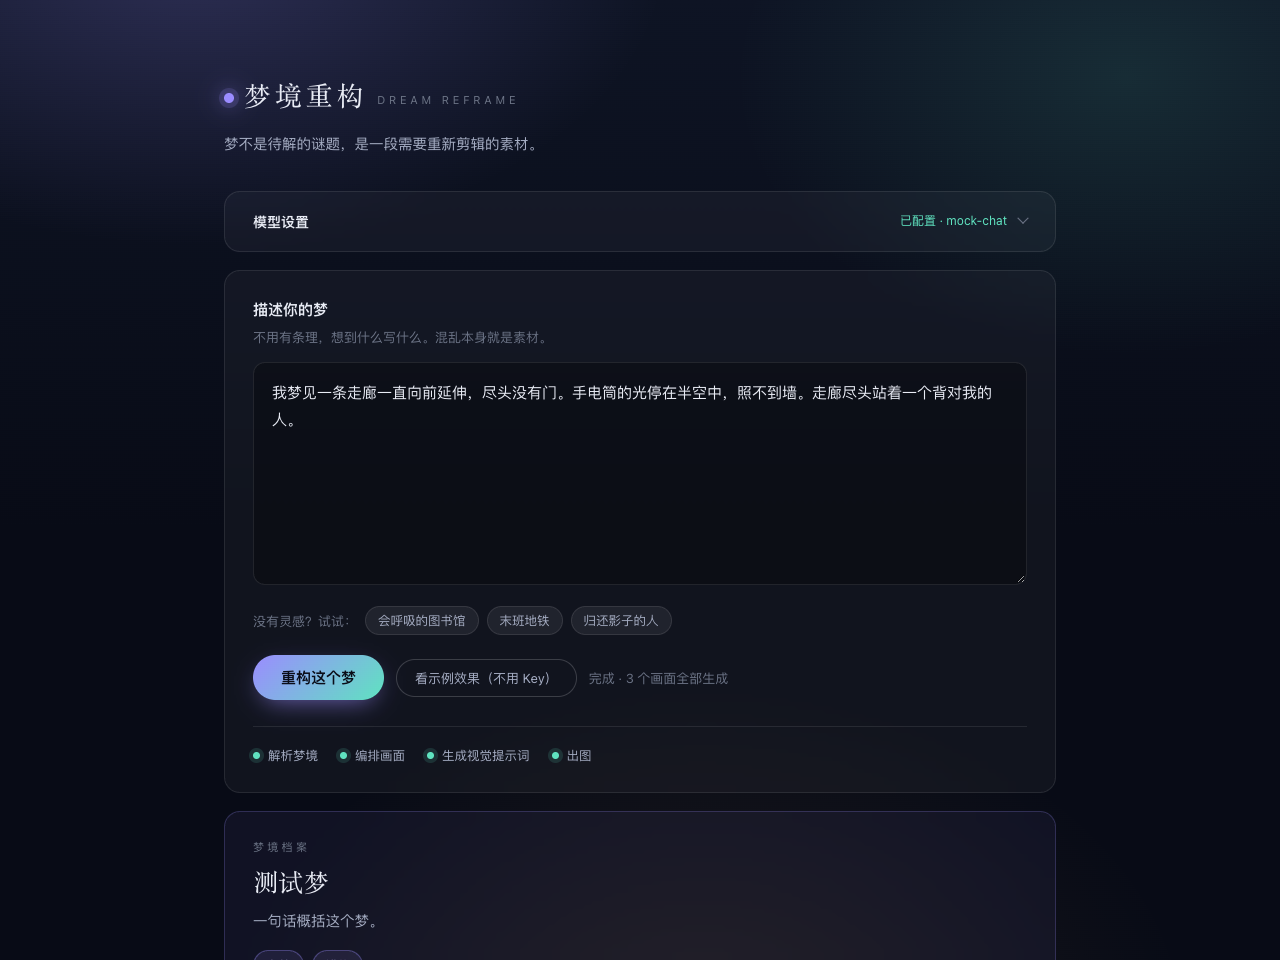
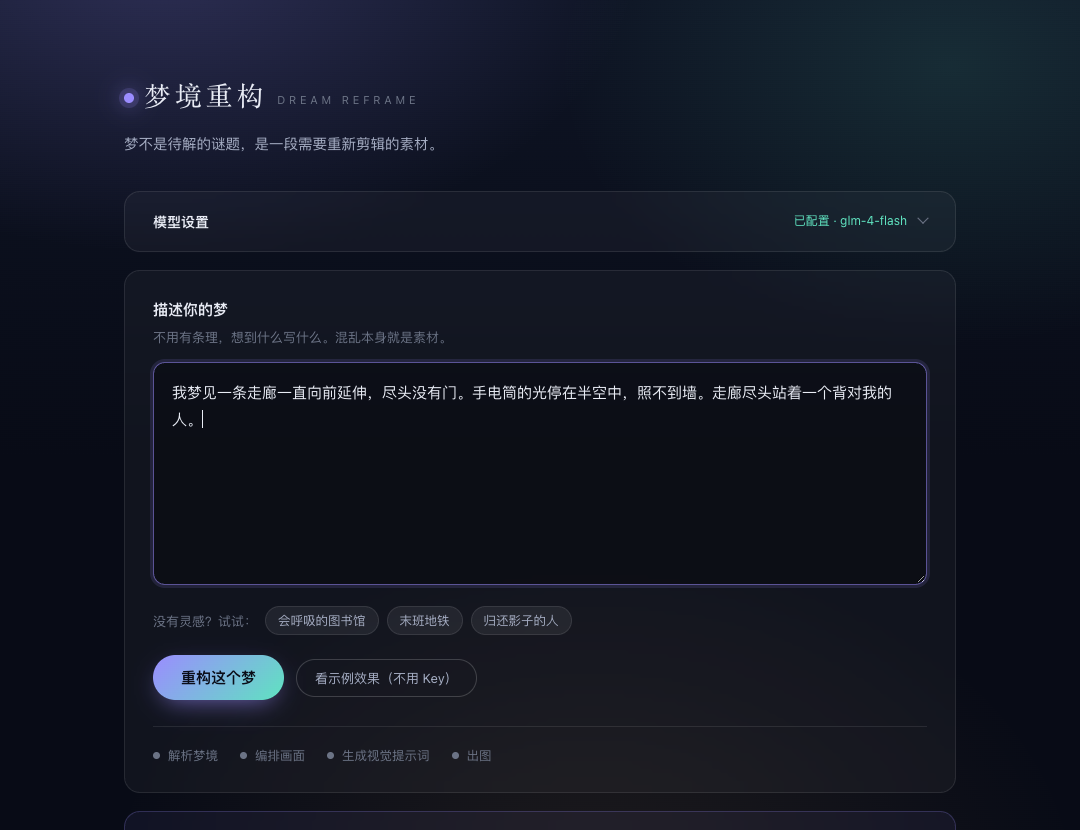
chore: 清理 v0.1 残留内容
- README：删除本机绝对路径与私人部署教程（约 90 行），改为通用部署三步；
  补充 Pages 上勿勾本地代理的警告（HTTP 405）；修正已被推翻的局限描述
- sample.js：风格锚点与画面提示词从电影语法（cinematic/35mm/景别/运镜）
  更新为梦境语法，与 VISUAL_SYSTEM 的当前立场一致
- prompts.js：VISUAL_SYSTEM 中残留的「镜头」统一为「画面」
- app.js / pipeline.js：删除无用变量（STORAGE_KEY / received）
- assets：重截首屏图，去除 mock 测试数据残留（测试梦 / mock-chat）
- ROADMAP：技术债补记「用当前锚点重新生成两张示例成片图」

diff --git a/src/sample.js b/src/sample.js
@@ -3,9 +3,12 @@
  * 用途有两个：给输入框提供灵感，以及在没有配置 Key 时也能看到完整交互。
  * 走示例路径时界面会明确标注「示例数据」，不会伪装成模型输出。
  *
- * 注意：DEMO_SAMPLE 里的提示词与 README 中的两张成片图
- * （assets/demo-shot-01.png / demo-shot-04.png）严格对应，
- * 改动提示词时请同步重新生成图片，否则「可直接复现」这句话就不成立了。
+ * 提示词与 VISUAL_SYSTEM 的输出规则一致：画面语法（构图、视角允许），
+ * 不含景别与运镜；风格锚点走「梦境质感」，不走电影质感。
+ *
+ * 注意：assets/ 下的两张示例成片（demo-shot-01/04.png）由早期版本的
+ * 电影语法锚点生成，与下方当前的提示词并非同源。用当前锚点重新生成
+ * 的待办记录在 docs/ROADMAP.md 的技术债一节。
  */
 
 export const SAMPLE_DREAMS = [
@@ -14,13 +17,15 @@ export const SAMPLE_DREAMS = [
   `有个人在街角摆了个摊，牌子上写着"归还影子"。排队的人都捧着自己扁扁的影子。轮到我的时候，摊主说我的影子不是我的，让我明天再来。`,
 ];
 
+const DREAM_ANCHOR =
+  'grainy dream photograph, muted teal and bone white palette, soft focus bleeding into hyper-sharp detail, subtle perspective distortion, light with no visible source, edges dissolving into darkness that never turns fully black, film grain';
+
 export const DEMO_SAMPLE = {
   title: '退潮的图书馆',
   thesis: '一座和你一起呼吸的图书馆，最后把读过的字还给了海。',
   mood: ['失重', '潮汐般的安静', '舍不得'],
   motifs: ['会呼吸的书架', '退潮的瓷砖地', '玻璃楼梯', '消失了的天花板'],
-  styleAnchor:
-    'cinematic film still, muted teal and bone white palette, soft volumetric haze, wet reflective surfaces, 35mm anamorphic lens, shallow depth of field, quiet symmetrical composition, overcast diffused light',
+  styleAnchor: DREAM_ANCHOR,
   shots: [
     {
       no: 1,
@@ -30,11 +35,9 @@ export const DEMO_SAMPLE = {
       emotion: '屏息',
       sensation: '脚底是干的，却听得见水在退。空气里有铁锈和湿纸的味道。',
       prompt:
-        'vast library reading room at low tide, bookshelves standing like dark cliffs on both sides, white tiled floor partly submerged, tide-line markings across the tiles, water draining away slowly, wide symmetrical composition, no people',
-      /** 与 assets/demo-shot-01.png 一一对应，仅示例流程使用 */
+        'vast library reading room at low tide, bookshelves standing like dark cliffs on both sides, white tiled floor partly submerged, tide-line markings across the tiles, water draining away slowly, symmetrical composition, no people',
       demoImage: 'assets/demo-shot-01.png',
-      fullPrompt:
-        'vast library reading room at low tide, bookshelves standing like dark cliffs on both sides, white tiled floor partly submerged, tide-line markings across the tiles, water draining away slowly, wide symmetrical composition, no people, cinematic film still, muted teal and bone white palette, soft volumetric haze, wet reflective surfaces, 35mm anamorphic lens, shallow depth of field, quiet symmetrical composition, overcast diffused light',
+      fullPrompt: `vast library reading room at low tide, bookshelves standing like dark cliffs on both sides, white tiled floor partly submerged, tide-line markings across the tiles, water draining away slowly, symmetrical composition, no people, ${DREAM_ANCHOR}`,
     },
     {
       no: 2,
@@ -44,9 +47,8 @@ export const DEMO_SAMPLE = {
       emotion: '奇异',
       sensation: '抬头追它的时候脖子一点也不酸。风是从书页里出来的，不冷。',
       prompt:
-        'rows of bookshelves breathing in and out like a ribcage, thin light leaking through the gaps, a single blue hardcover floating at head height, turning slowly in the air, medium shot, shallow depth of field',
-      fullPrompt:
-        'rows of bookshelves breathing in and out like a ribcage, thin light leaking through the gaps, a single blue hardcover floating at head height, turning slowly in the air, medium shot, shallow depth of field, cinematic film still, muted teal and bone white palette, soft volumetric haze, wet reflective surfaces, 35mm anamorphic lens, shallow depth of field, quiet symmetrical composition, overcast diffused light',
+        'rows of bookshelves breathing in and out like a ribcage, thin light leaking through the gaps, a single blue hardcover floating at head height, turning slowly in the air, shallow depth of field',
+      fullPrompt: `rows of bookshelves breathing in and out like a ribcage, thin light leaking through the gaps, a single blue hardcover floating at head height, turning slowly in the air, shallow depth of field, ${DREAM_ANCHOR}`,
     },
     {
       no: 3,
@@ -56,9 +58,8 @@ export const DEMO_SAMPLE = {
       emotion: '错位',
       sensation: '每踩一级，身体就轻一点。影子先走，我后到，可我们明明是一起动的。',
       prompt:
-        'endless glass staircase ascending into haze, each step rippling like water when touched, a lone human shadow climbing one step ahead of the viewer, low angle, slight handheld motion',
-      fullPrompt:
-        'endless glass staircase ascending into haze, each step rippling like water when touched, a lone human shadow climbing one step ahead of the viewer, low angle, slight handheld motion, cinematic film still, muted teal and bone white palette, soft volumetric haze, wet reflective surfaces, 35mm anamorphic lens, shallow depth of field, quiet symmetrical composition, overcast diffused light',
+        'endless glass staircase ascending into haze, each step rippling like water when touched, a lone human shadow climbing one step ahead of the viewer',
+      fullPrompt: `endless glass staircase ascending into haze, each step rippling like water when touched, a lone human shadow climbing one step ahead of the viewer, ${DREAM_ANCHOR}`,
     },
     {
       no: 4,
@@ -68,11 +69,9 @@ export const DEMO_SAMPLE = {
       emotion: '释然',
       sensation: '离得越远，越能感觉到那些字擦过手背。海水不凉，像刚洗过的手。',
       prompt:
-        'library ceiling dissolved into a night sea, thousands of loose pages flying toward the horizon, letters scattering across the water surface and slowly reassembling, distant wide shot, camera rising slowly',
-      /** 与 assets/demo-shot-04.png 一一对应，仅示例流程使用 */
+        'library ceiling dissolved into a night sea, thousands of loose pages flying toward the horizon, letters scattering across the water surface and slowly reassembling, seen from far away',
       demoImage: 'assets/demo-shot-04.png',
-      fullPrompt:
-        'library ceiling dissolved into a night sea, thousands of loose pages flying toward the horizon, letters scattering across the water surface and slowly reassembling, distant wide shot, camera rising slowly, cinematic film still, muted teal and bone white palette, soft volumetric haze, wet reflective surfaces, 35mm anamorphic lens, shallow depth of field, quiet symmetrical composition, overcast diffused light',
+      fullPrompt: `library ceiling dissolved into a night sea, thousands of loose pages flying toward the horizon, letters scattering across the water surface and slowly reassembling, seen from far away, ${DREAM_ANCHOR}`,
     },
   ],
 };

diff --git a/src/pipeline.js b/src/pipeline.js
@@ -75,7 +75,6 @@ function mergeVisual(analysis, raw) {
  */
 export async function reframeDream(dream, settings, hooks = {}) {
   const { signal, onStage, onProgress } = hooks;
-  let received = 0;
   const progress = (full) => onProgress?.(full.length);
 
   onStage?.('analyze');
@@ -91,7 +90,6 @@ export async function reframeDream(dream, settings, hooks = {}) {
   });
   const analysis = normalizeAnalysis(extractJson(analysisText));
   onStage?.('storyboard');
-  received = 0;
 
   onStage?.('visual');
   const visualText = await chat({
@@ -105,7 +103,6 @@ export async function reframeDream(dream, settings, hooks = {}) {
     onDelta: (_delta, full) => progress(full),
   });
   const merged = mergeVisual(analysis, extractJson(visualText));
-  void received;
 
   onStage?.('done');
   return merged;

diff --git a/src/app.js b/src/app.js
@@ -4,7 +4,7 @@
  * 这里只做编排，不做业务：提示词在 prompts.js，请求在 llm.js / image.js，
  * DOM 在 render.js。想调模型行为，不用打开这个文件。
  */
-import { DEFAULT_IMAGE_SIZE, PROVIDERS, REPO_URL, SIZE_KEYS, STORAGE_KEY } from './config.js';
+import { DEFAULT_IMAGE_SIZE, PROVIDERS, REPO_URL, SIZE_KEYS } from './config.js';
 import { describeError, isConfigured, loadSettings, saveSettings } from './llm.js';
 import { describeImageError, imageConfigOf, isImageReady } from './image.js';
 import { generateShotImage, reframeDream, renderDreamImages, toExport } from './pipeline.js';
@@ -447,5 +447,3 @@ if (REPO_URL) {
 } else {
   $('repoLink').hidden = true;
 }
-
-void STORAGE_KEY;

diff --git a/README.md b/README.md
@@ -41,7 +41,7 @@
 
 ## 风格锚点的实际效果
 
-下面两张图来自同一个梦境的两个画面，提示词完全由上面的链路生成，没有人工修改。注意它们共享同一条风格锚点，所以色调、质感、影调是一致的——这就是跨画面一致性的解法。
+下面两张图来自同一个梦境的两个画面，提示词完全由链路生成，没有人工修改。它们共享同一条风格锚点，所以色调、质感、影调是一致的——这就是跨画面一致性的解法。
 
 **画面 01 · 潮水退去**
 
@@ -51,7 +51,7 @@
 
 ![画面 04](assets/demo-shot-04.png)
 
-> 两条提示词的完整原文在 `src/sample.js` 里，可以直接复制去复现。
+> 这两张成片由项目早期版本的风格锚点生成。当前锚点已转向「梦境质感」（见下方设计取舍），用当前提示词重新生成两张图是待办之一。
 
 ## 快速开始
 
@@ -66,7 +66,7 @@ node server.mjs        # 或者 npm start
 打开 <http://127.0.0.1:8080>：
 
 1. 展开「模型设置」，选服务商（DeepSeek / 智谱 / Kimi / 通义 / 硅基流动 / OpenAI，或任意 OpenAI 兼容接口）
-2. 粘贴你的 API Key，保存
+2. 粘贴你的 API Key，**点「保存设置」**
 3. 描述一个梦，点「重构这个梦」
 
 没有 Key 也能玩：点「看示例效果」可以走完整个交互流程（页面会明确标注这是示例数据）。
@@ -144,11 +144,12 @@ dream-reframe/
 
 要加一个新字段（比如「听觉」），需要同步改三处：`ANALYZE_SYSTEM` 的 JSON 结构、`pipeline.js` 的 `normalizeAnalysis`、`render.js` 的渲染函数。漏掉后两处，模型的输出会掉进虚空。
 
-改完提示词记得同步更新 `src/sample.js` 的示例数据；如果连示例提示词一起改了，README 里那两张成片图也要重新生成，否则「可直接复现」这句话就不成立了。
+改完提示词记得同步更新 `src/sample.js` 的示例数据；示例成片图也要用新提示词重新生成，否则「示例」与「数据」就对不上了。
 
 ## 局限
 
-- 出图直接从浏览器调用服务商接口，所以只能用允许跨域直连的服务商（上面的表格里都标了）；想要完全不受限，需要一个服务端，见 Roadmap
+- 出图直接从浏览器调用服务商接口，所以只能用允许跨域直连的服务商（上面的表格里都标了）
+- **部署到 GitHub Pages 后不要勾「经本地代理转发」**——Pages 是纯静态托管，没有 `/api/*` 后端，勾了所有请求都会被拒绝（HTTP 405）。代理只在本机运行 `node server.mjs` 时有意义
 - 出图的一致性靠提示词级别的风格锚点，不是模型级别的（LoRA / 参考图），跨画面的人物面部一致性没有保证
 - 梦境记录不做云端留存，这是一次性的工具，不是档案库
 
@@ -156,105 +157,14 @@ dream-reframe/
 
 见 [docs/ROADMAP.md](docs/ROADMAP.md)。下一优先级是**梦境档案**：登录 + 云数据库，把每晚的梦攒成一本可翻的册子。
 
-## 发布到 GitHub
+## 部署到你自己的仓库
 
-### 0. 先配好 git 身份
+项目没有构建步骤，仓库自带 GitHub Pages 工作流（`.github/workflows/deploy.yml`）：
 
-这一步不能跳。没有身份，提交会挂在一个匿名账号下，**GitHub 上不会算到你的贡献记录里**，招聘方点进 commit 也看不到作者是谁。
-
-```bash
-git config --global user.name "你的名字"
-git config --global user.email "你的 GitHub 邮箱"
-```
-
-邮箱建议用 GitHub 账户里设置的那个（Settings → Emails），否则头像和贡献图都不会关联。
-
-### 1. 在 GitHub 上建一个空仓库
-
-浏览器打开 https://github.com/new ，仓库名 `dream-reframe`。
-
-**不要勾选** "Add a README file"、"Add .gitignore"、"Choose a license"——本地已经有了，勾了会导致 push 冲突。
-
-### 2. 关联并推送
-
-推荐用 HTTPS + Token，因为你这台机器还没有 SSH 密钥：
-
-```bash
-cd /Users/mac/WorkBuddy/2026-10-13-14-57-46/dream-reframe
-git remote add origin https://github.com/<你的用户名>/dream-reframe.git
-git push -u origin main
-```
-
-推送时会要求输入账号密码。**密码栏要填 Personal Access Token，不是你的 GitHub 登录密码**：
-
-1. 打开 https://github.com/settings/tokens
-2. Generate new token → 勾选 `repo` 权限 → 生成后复制
-3. 粘到密码栏（终端里不会显示字符，这是正常的）
-
-Mac 上第一次输入后会被 Keychain 记住，之后不用再输。
-
-<details>
-<summary>或者：装 gh CLI，一条命令建仓库 + 推送（推荐长期使用）</summary>
-
-```bash
-brew install gh
-gh auth login          # 按提示选 HTTPS，浏览器授权
-cd /Users/mac/WorkBuddy/2026-10-13-14-57-46/dream-reframe
-gh repo create dream-reframe --public --source=. --push
-```
-
-好处是不用手动建仓库、不用管理 Token，`gh` 会自动处理凭据并写进 Keychain。
-
-</details>
-
-<details>
-<summary>或者：用 SSH（需要先生成密钥）</summary>
-
-你这台机器目前没有 SSH 密钥。生成并添加：
-
-```bash
-ssh-keygen -t ed25519 -C "你的 GitHub 邮箱"   # 一路回车
-pbcopy < ~/.ssh/id_ed25519.pub                # 复制公钥
-```
-
-然后打开 https://github.com/settings/keys → New SSH key → 粘贴 → 保存。
-
-```bash
-git remote add origin git@github.com:<你的用户名>/dream-reframe.git
-git push -u origin main
-```
-
-</details>
-
-### 3. 打开自动部署（这一步别跳过）
-
-仓库里已经放好了 `.github/workflows/deploy.yml`。推上去之后：
-
-1. 进入仓库 **Settings → Pages**
-2. 把 **Source** 从 "Deploy from a branch" 改成 **"GitHub Actions"**
-3. 回到 **Actions** 标签页，看到 "Deploy to GitHub Pages" 跑完（约 1 分钟）
-
-地址就是 `https://<你的用户名>.github.io/dream-reframe/`。以后每次 push 到 main 都会自动更新。
-
-**这一步比仓库本身重要。** 面试官不会 clone 你的代码跑一遍，但会点开一个链接试用。README 第一段放上这个地址，效果远好于十页代码。
-
-### 4. 收尾
-
-- 把 `src/config.js` 里的 `REPO_URL` 改成你的仓库地址，页脚链接才会生效
-- 把 README 顶部的「在线体验」地址换成真实的 Pages 地址
-- 在仓库 **About** 里填一句话简介，并把 `assets/shot-result.png` 设为 social preview（分享到微信/Twitter 时显示这张图）
-
-### 部署后注意：没有本地代理了
-
-Pages 是纯静态托管，`server.mjs` 跑不起来，所以**勾选「经本地代理转发」会失效**。好在主流服务商都允许浏览器直连，实测结果：
-
-| 服务商 | 浏览器直连 |
-|---|---|
-| DeepSeek / 智谱 / Kimi / 通义 / 硅基流动 | 支持 |
-| OpenAI | 不支持，需服务端代理 |
-
-所以部署后请使用上表前五个之一。选了不支持直连的服务商，设置面板会直接给出提示，不会让你撞一次错误才发现。
+1. 把仓库 Fork 或 push 到你自己的 GitHub 账号
+2. 仓库 **Settings → Pages**，把 Source 选成 **GitHub Actions**
+3. 之后每次 push 到 main 都会自动部署，地址是 `https://<你的用户名>.github.io/dream-reframe/`
 
 ## License
 
-MIT。把 `LICENSE` 里的署名换成你自己的名字。
+MIT。Fork 后把 `LICENSE` 里的署名换成你自己的名字即可。

diff --git a/docs/ROADMAP.md b/docs/ROADMAP.md
@@ -49,4 +49,4 @@
 - [ ] E2E 测试覆盖核心链路
 - [ ] 错误上报（当前只有本地提示）
 - [ ] 无障碍：键盘导航与读屏标签补全
-- [ ] 示例成片图压缩（当前每张 2.3MB，靠懒加载兜底）
+- [ ] 用当前的梦境语法锚点重新生成示例成片图（`assets/demo-shot-01/04.png` 现由早期电影语法锚点生成，与 `sample.js` 当前提示词不同源），重生成时顺带压缩——目前每张 2.3MB
